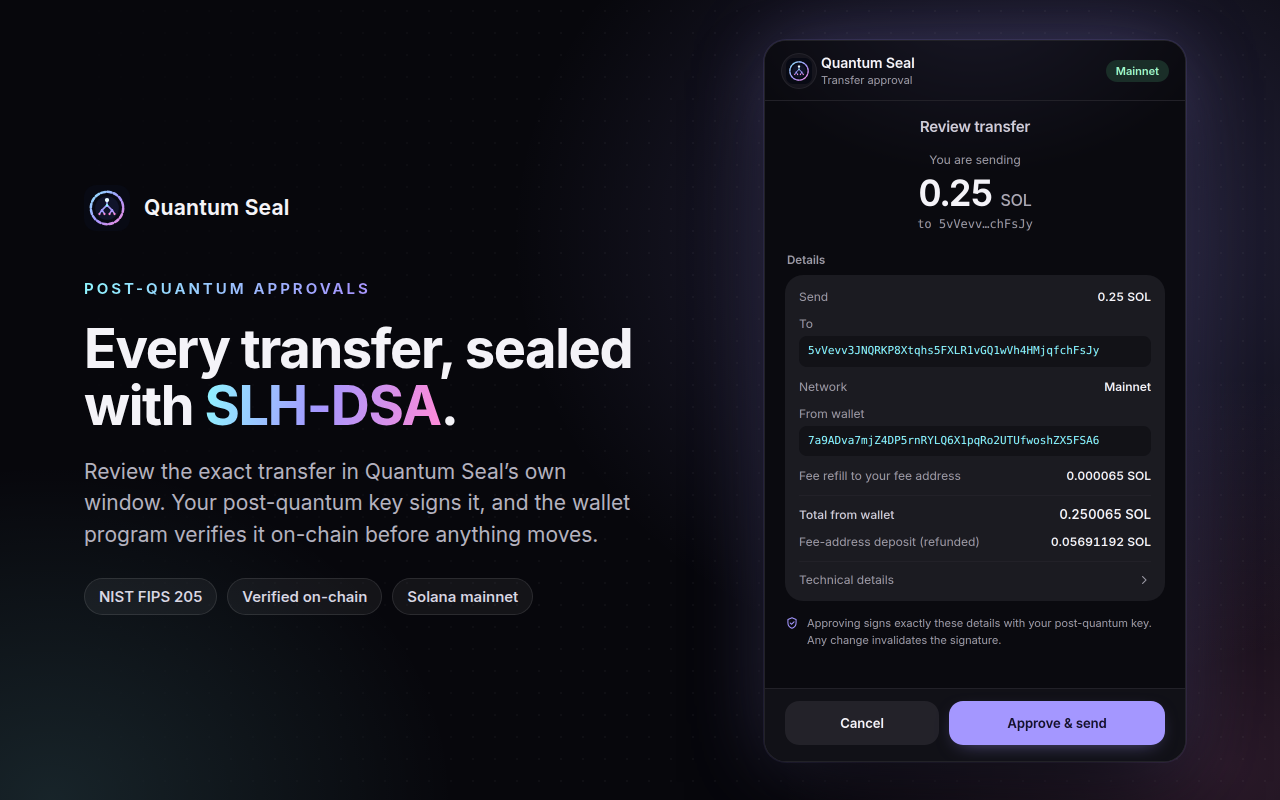
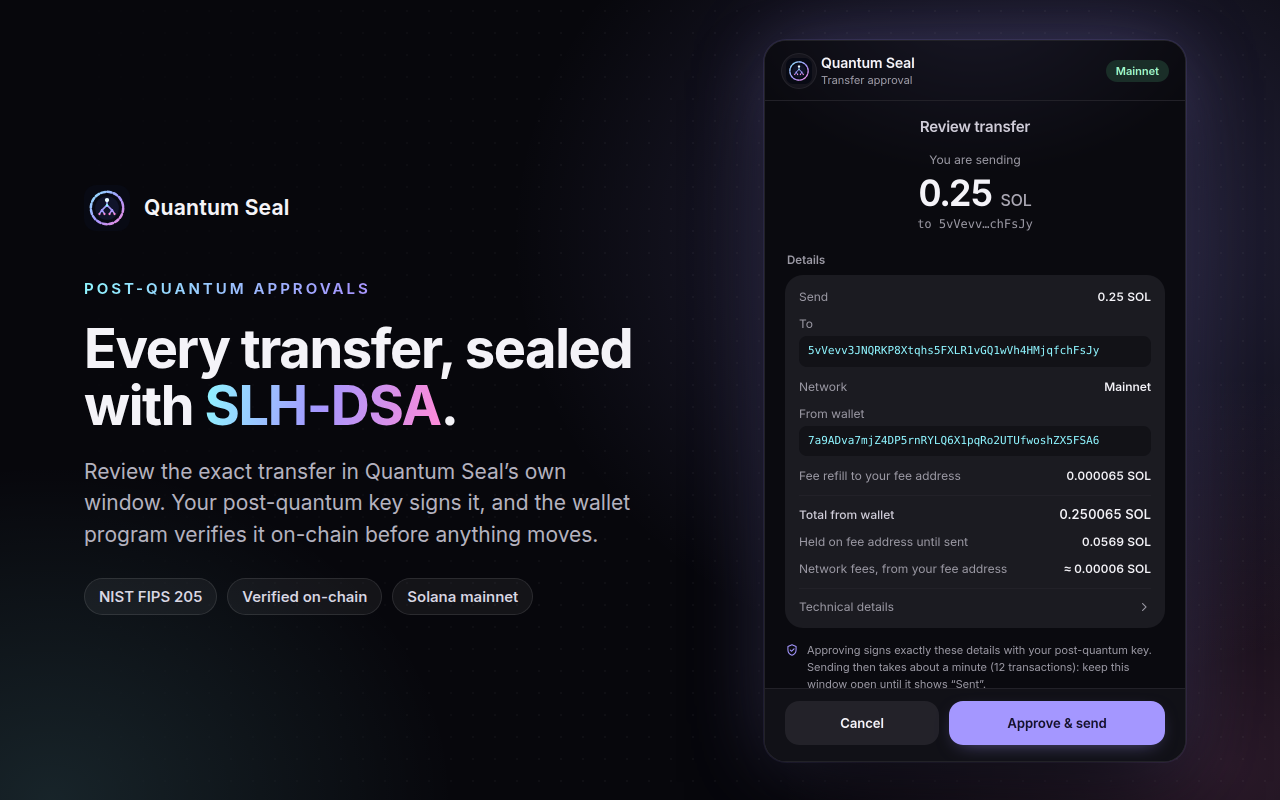
New-user clarity: costs, fee address, no seed phrase, timing
From a first-time-user review:
- Welcome says there is no seed phrase (backup file instead; other wallets'
  recovery phrases can't be imported).
- Setup says it is the fee address, not the wallet address, what to do when
  Ready, and where to get devnet test SOL.
- Low fee address: the exact shortfall and why the wallet can't top it up.
- Review: 'Held on fee address until sent', network fees row, and that sending
  takes about a minute with the window open; 'Resume send'.
- Backup page: the file opens only with the current passphrase.
e2e: 'Sent.' matched exactly, and balance checks after a send wait for the next
confirmed slot (fixes the earlier intermittent read race).

diff --git a/src/ui/home.jsx b/src/ui/home.jsx
@@ -162,8 +162,8 @@ export function HomeTab({ reloadKey, onInitialized, onReceive, onSend, onSetting
               <p>
                 Add SOL to your fee address to send
                 <span>
-                  It holds {solDisplay(o.feeLamports, 6)} SOL; a send needs about {solDisplay(o.feeNeededLamports, 3)} SOL
-                  there. Send SOL to it from any wallet or exchange.
+                  Send at least {solDisplay(o.feeNeededLamports - o.feeLamports, 6)} SOL to it from another wallet or
+                  exchange. Your wallet can’t top it up itself: every move out of the wallet needs this deposit first.
                 </span>
               </p>
             </div>
@@ -336,10 +336,17 @@ function Setup({ o, action, refreshing, onRefresh, error, reminder }) {
       <div className="page-heading">
         <h1>Set up your wallet</h1>
         <p>
-          Send at least {lamportsToSol(SETUP_MINIMUM_LAMPORTS)} SOL to this address on <strong>{o.label}</strong>. It
-          becomes your fee address: {lamportsToSol(FEE_FLOAT_LAMPORTS)} SOL stays here for network fees and the rest
-          moves into your new wallet.
+          Send at least {lamportsToSol(SETUP_MINIMUM_LAMPORTS)} SOL to this address on <strong>{o.label}</strong>, once.
+          This is your <strong>fee address</strong>, not your wallet address: {lamportsToSol(FEE_FLOAT_LAMPORTS)} SOL
+          stays here for network fees and send deposits, and the rest moves into your new wallet. When it shows Ready,
+          tap Create my wallet; your wallet address then appears under Receive.
         </p>
+        {o.isTestNetwork && o.cluster === 'devnet' ? (
+          <p className="hint">
+            <Clock size={14} />
+            <span>Test SOL for devnet: faucet.solana.com</span>
+          </p>
+        ) : null}
       </div>
       <div className="setup-balance" aria-live="polite">
         <span>
@@ -384,7 +391,7 @@ function Setup({ o, action, refreshing, onRefresh, error, reminder }) {
       {enough ? null : (
         <p className="hint">
           <Clock size={14} />
-          <span>Checking for your deposit every few seconds. You can close this window meanwhile.</span>
+          <span>Checking for your deposit every few seconds. You can close this window and come back to tap Create my wallet.</span>
         </p>
       )}
       {reminder}

diff --git a/src/ui/review.jsx b/src/ui/review.jsx
@@ -15,6 +15,7 @@ import {
   errorText,
   friendlyMessage,
   lamportsToSol,
+  solDisplay,
   onStorageChange,
   onSendsChange,
   getSettings,
@@ -285,7 +286,7 @@ function Review() {
   else if (record.status === 'submitting' && !running)
     footer = (
       <button type="button" className="secondary" onClick={() => run(false)}>
-        Resume if stalled
+        Resume send
       </button>
     );
   else if (record.status === 'done')
@@ -392,7 +393,7 @@ function Review() {
         {record.status === 'submitting' ? (
           <p className="muted small">
             {running
-              ? 'Sending… keep this window open.'
+              ? 'Sending… about a minute. Keep this window open.'
               : 'Not moving? If this send was interrupted, Resume continues from what is already on-chain.'}
           </p>
         ) : null}
@@ -438,7 +439,10 @@ function Review() {
             <KeyValue label="Total from wallet" strong>{`${lamportsToSol(view.lamports + view.fee.lamports)} SOL`}</KeyValue>
           ) : null}
           {inReview || (['signed', 'submitting', 'failed', 'uncertain'].includes(record.status) && record.reclaimed !== true) ? (
-            <KeyValue label="Fee-address deposit (refunded)">{`${lamportsToSol(record.refundableRentLamports)} SOL`}</KeyValue>
+            <KeyValue label="Held on fee address until sent">{`${solDisplay(record.refundableRentLamports, 4)} SOL`}</KeyValue>
+          ) : null}
+          {inReview ? (
+            <KeyValue label="Network fees, from your fee address">≈ 0.00006 SOL</KeyValue>
           ) : null}
           <details className="tech-details">
             <summary>
@@ -456,7 +460,10 @@ function Review() {
         {inReview ? (
           <p className="hint">
             <Shield size={14} />
-            <span>Approving signs exactly these details with your post-quantum key. Any change invalidates the signature.</span>
+            <span>
+              Approving signs exactly these details with your post-quantum key. Sending then takes about a minute (12
+              transactions): keep this window open until it shows “Sent”.
+            </span>
           </p>
         ) : null}
         {inReview && askPassphrase && !blocked ? (

diff --git a/src/ui/settings.jsx b/src/ui/settings.jsx
@@ -239,6 +239,10 @@ export function BackupPage({ onBack }) {
             The backup file holds your keys, encrypted with your passphrase, and your public wallet addresses. Keep it
             somewhere safe: anyone with the file and the passphrase controls the wallet.
           </p>
+          <p>
+            <strong>It opens only with the passphrase you have now.</strong> If you forget that passphrase, the file
+            cannot be opened either, so write it down and keep it apart from the file.
+          </p>
           <p className="field-hint">Developers: the owner key in this file also works with the Quantum Seal command line.</p>
         </div>
         <ActionButton busy={busy} icon={<Download size={16} />} onClick={download}>

diff --git a/src/ui/onboarding.jsx b/src/ui/onboarding.jsx
@@ -52,6 +52,13 @@ export function Welcome({ onDone }) {
           ))}
         </div>
         {mode === 'create' ? <CreateForm onDone={onDone} /> : <RestoreForm onDone={onDone} />}
+        <p className="hint gate-note">
+          <Shield size={14} />
+          <span>
+            No seed phrase: you save an encrypted backup file instead. Recovery phrases from other wallets cannot be
+            imported.
+          </span>
+        </p>
       </main>
     </div>
   );
